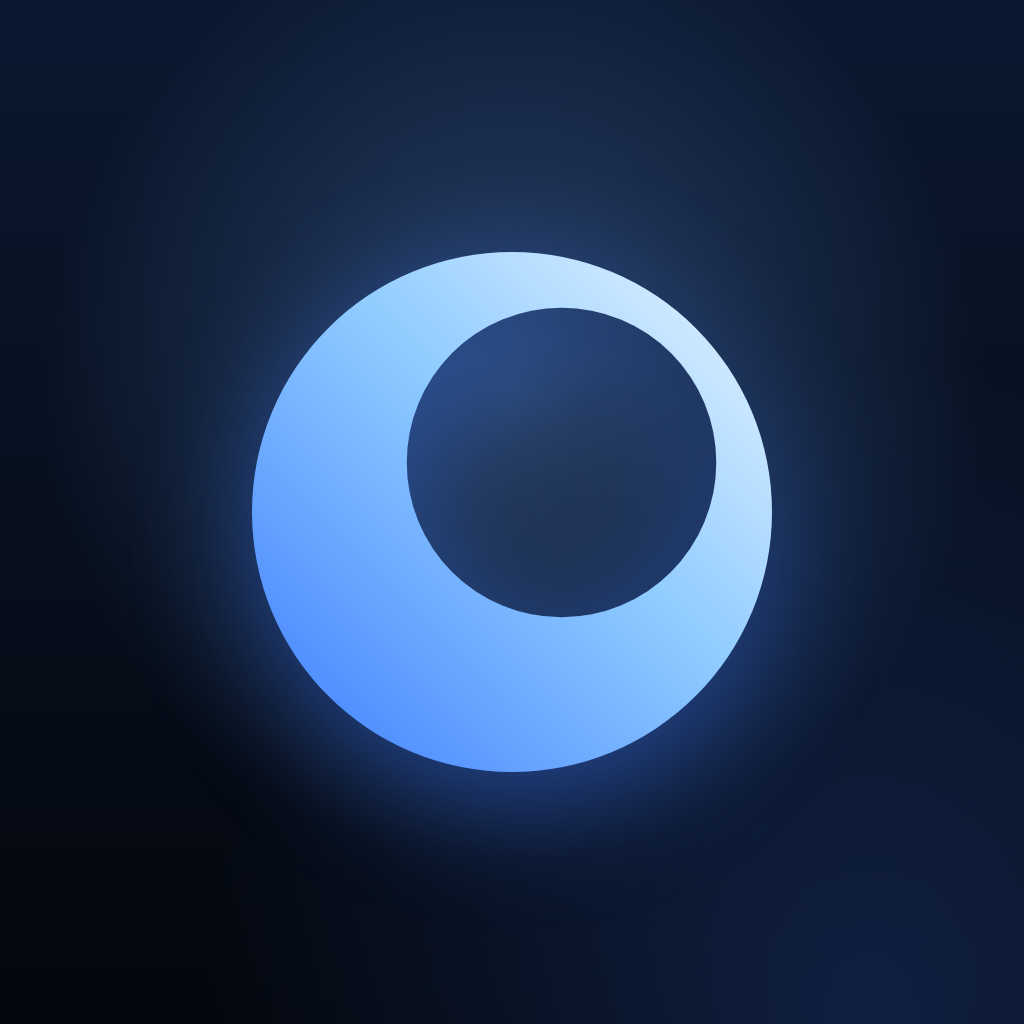
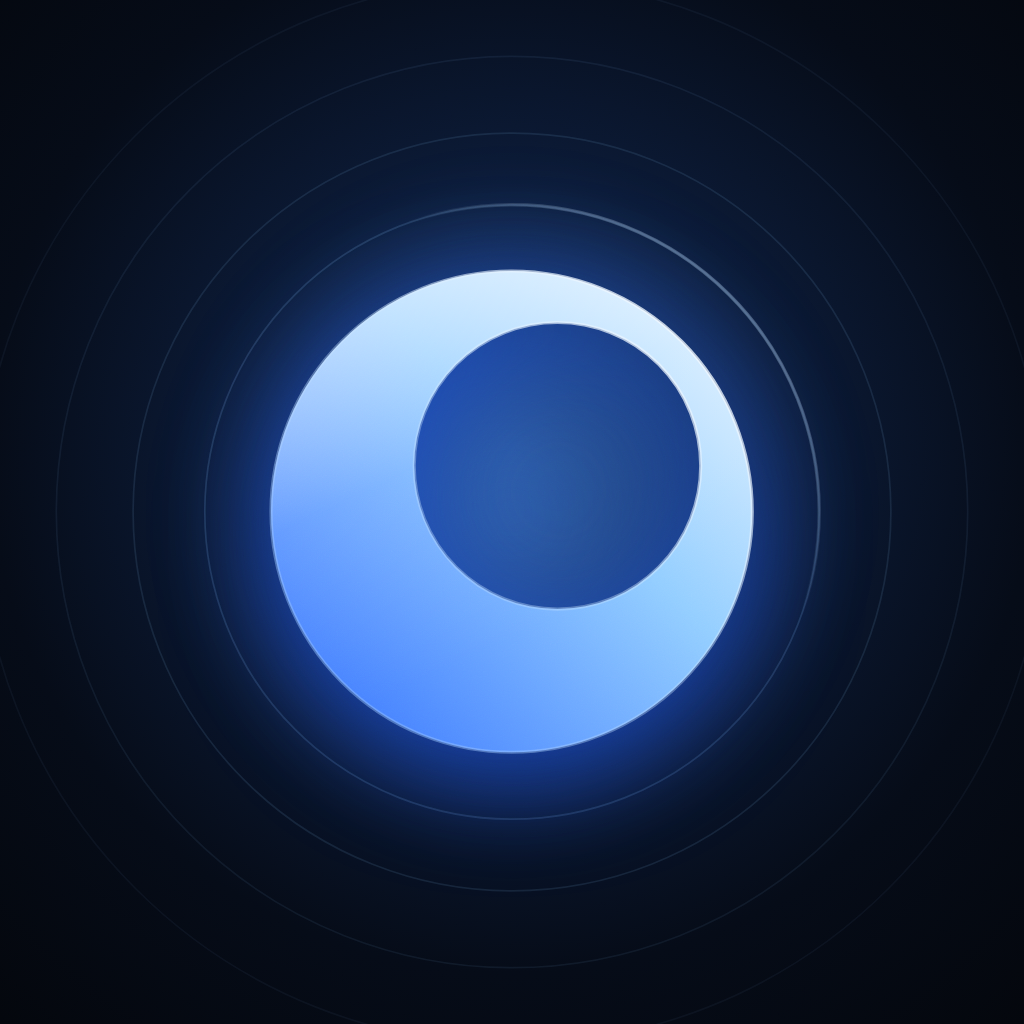
Premium X profile picture and headers
- Profile picture: glossy mark with a bright rim on soft rings and glow,
  circle-safe, with film grain against banding.
- X header: logo, "Follow the wallets that move first." and the site on the
  left, a live-trades card on the right, a river line behind; the bottom left
  stays clear for the profile picture. A second header says "CA coming soon".
- Social kit: @oxbowflow is live; the new header listed.

Claude-Session: https://claude.ai/code/session_01GSU5jEUP5uChN7hJ5zsFHP

diff --git a/design/social-kit.md b/design/social-kit.md
@@ -1,19 +1,20 @@
 # Oxbow social kit (X and Telegram)
 
-Everything needed to open the official accounts. When they exist, put the
-links in `apps/web/.env.production.local` and deploy; the footer's "Soon"
-pills turn into links and the X icon appears in the nav:
+Everything needed for the official accounts. X is live at
+[x.com/oxbowflow](https://x.com/oxbowflow) and the site links it by default.
+When the Telegram channel exists, put its link in
+`apps/web/.env.production.local` and deploy; the footer's "Soon" pill turns
+into a link:
 
 ```
-NEXT_PUBLIC_X_URL=https://x.com/yourhandle
 NEXT_PUBLIC_TELEGRAM_URL=https://t.me/yourchannel
 ```
 
 ## Names
 
 - Display name: **Oxbow** (both).
-- Handle: same on both if you can get it, in this order: `oxbowflow`
-  (matches the domain), `oxbowfi`, `useoxbow`. Availability was not checked.
+- Handle: `@oxbowflow` on X (matches the domain); the same on Telegram if
+  you can get it.
 - Telegram: start with a **public channel** for announcements (only admins
   post, so no scam replies). Add a discussion group later, once someone can
   moderate it.
@@ -27,6 +28,7 @@ All in `apps/web/public/brand/social/`, and on the site after deploy at
 | --- | --- |
 | Profile picture, X and Telegram (circle-safe) | `oxbow-profile-1024.png` |
 | X header | `oxbow-x-header-1500x500.png` |
+| X header until the token launches ("CA coming soon") | `oxbow-x-header-ca-soon-1500x500.png` |
 | Announcement post, X and Telegram (16:9) | `oxbow-coming-soon-1600x900.png` |
 | Announcement post, square | `oxbow-coming-soon-1080.png` |
 
@@ -105,3 +107,6 @@ product already does, so nothing has to be walked back later.
 No price targets, returns, "guaranteed", "risk-free" or "investment".
 Never call a wallet's next trade a sure thing or present featured wallets as
 advice; keep the Risk page link handy when people ask.
+
+The headers keep the bottom left clear: X lays the profile picture over it.
+All images are rendered by `node scripts/brand-png.mjs`.

diff --git a/scripts/README.md b/scripts/README.md
@@ -3,7 +3,7 @@
 - `brand-logo.py`: the Oxbow Lake logo, mark and app icon as SVG
   (`apps/web/public/brand/`).
 - `brand-png.mjs [filter]`: renders the brand artwork to PNG: app icons,
-  profile picture, X header and the "coming soon" announcement cards
+  profile picture, X headers (one saying "CA coming soon") and the "coming soon" announcement cards
   (`apps/web/public/brand/social/`). With a filter, only matching files.
 - `token-logos.py`: the sample tokens' logos (`apps/web/public/tokens/`).
 - `wallet-logos.py`: the wallets' official icons (`apps/web/public/wallets/`).
